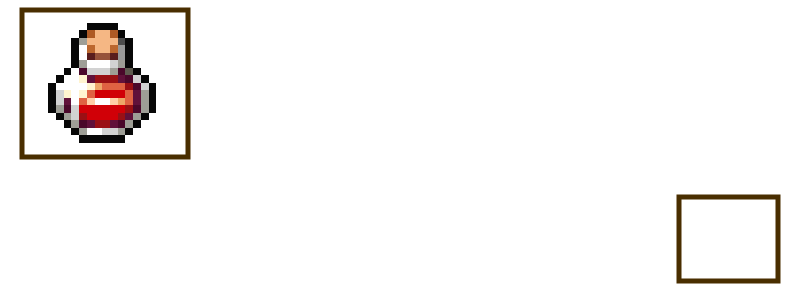
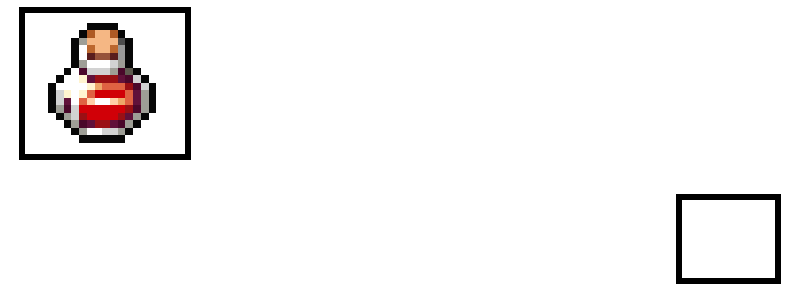
Progresso de Inventario

Changed region(s): [[0.0, 0.0, 0.25, 0.54], [0.8438, 0.63, 1.0, 0.96]]

diff --git a/InventoryObjects.js b/InventoryObjects.js
@@ -13,31 +13,86 @@ class Item extends Sprite {
 
     equip(){
         this.equiped = true;
-        player.damage += this.stats.damage;
-        player.life += this.stats.hp;
     }
 
     unequip(){
         this.equiped = false;
-        player.damage = player.damage-this.stats.damage;
-        player.life = player.life-this.stats.hp;
+
     }
 }
 
 class Sword extends Item{
-    constructor(x,y,width,height) {
+    constructor(x,y,width,height,damage) {
         super(x,y,width,height);
+    }
+    equip(){
+        super.equip()
+        player.damage += this.damage;
+    }
+
+    unequip() {
+        super.unequip();
+        player.damage= player.damage-this.damage;
     }
 }
 
 class Potion extends Item{
-    constructor(x,y,width,height) {
+    constructor(x,y,width,height,hp) {
         super(x,y,width,height);
+    }
+
+    equip(){
+        super.equip();
+        player.life += this.hp;
+    }
+
+}
+
+class Shield extends Potion{
+    constructor(x,y,width,height,hp) {
+        super(x,y,width,height,hp);
+    }
+
+    unequip() {
+        super.unequip();
+        player.life = player.life - this.hp;
     }
 }
 
-class Shield extends Item{
+class Selection extends Sprite{
     constructor(x,y,width,height) {
         super(x,y,width,height);
+        this.numberOfOptions=0;
+        this.checks=[];
+    }
+    draw(){
+        ctx.fillStyle="black";
+        ctx.strokeRect(this.x,this.y,this.width,this.height);
+    }
+
+    select(key){
+        console.log(this.numberOfOptions);
+        if(key==="ArrowUp" && this.numberOfOptions>0){
+            this.numberOfOptions--;
+            this.y -= item.y;
+        }else if(key==="ArrowDown" && this.numberOfOptions<=(player.inventory.length-2)){
+            this.numberOfOptions++;
+            this.y+=item.y;
+        }else if(key==="Enter" && this.numberOfOptions>0 && this.numberOfOptions<(player.inventory.length-1)){
+            if(!player.inventory[this.numberOfOptions].equiped){
+                player.inventory[this.numberOfOptions].equip();
+            }else if(player.inventory[this.numberOfOptions].equiped && player.inventory[this.numberOfOptions] instanceof Sword || player.inventory[this.numberOfOptions] instanceof Shield){
+                player.inventory[this.numberOfOptions].unequip();
+            }
+        }
+    }
+}
+
+class Check extends Sprite{
+    constructor(x,y,width,height) {
+        super(x,y,width,height);
+    }
+    draw(){
+        ctx.drawImage(check.images[0], this.x, this.y, this.width, this.height);
     }
 }

diff --git a/GameLoop.js b/GameLoop.js
@@ -4,8 +4,10 @@ const player = new Player(220,canvas.height/1.5,150,150);
 const playerattack = new playerStance(player.x,player.y,player.width,player.height);
 const npc = new Npc((canvas.width/2)-50,(canvas.height/2)-40,200,200);
 const inventory = new Inventory((canvas.width*1000)/1536, (canvas.height*50)/731,(canvas.width*350)/1536,(canvas.height*600)/731);
-let enemy = new Enemy(canvas.width/2,(canvas.height/2)-tiles.height*3,64,64,10);
+const enemy = new Enemy(canvas.width/2,(canvas.height/2)-tiles.height*3,64,64,10);
 const item = new Item((canvas.width*1028)/1536,(canvas.height*85)/731,(canvas.width*295)/1536,(canvas.height*80)/731);
+const selection = new Selection(item.x,item.y,item.width,item.height);
+const check = new Check(item.x+320,item.y+10,30,30);
 
 map.load("Assets/room1.png","Assets/room2.png","Assets/room3.png","Assets/room4.png","Assets/room5.png","Assets/room6.png");
 foreground.load("Assets/room1foreground.png","Assets/room2foreground.png","Assets/room3foreground.png","Assets/room4foreground.png","Assets/room5foreground.png","Assets/room6foreground.png")
@@ -21,9 +23,14 @@ npc.load(18,6,npc.images,"Assets/NPC/Golem/idle_down.png");
 
 enemy.load("Assets/Donut.png")
 
-inventory.load("Assets/Inventory/inventory.png","Assets/Inventory/sword1.png","Assets/Inventory/shield1.png");
+inventory.load("Assets/Inventory/inventory.png","Assets/Inventory/sword1.png","Assets/Inventory/shield1.png","Assets/Inventory/potion1.png");
 
-player.inventory.push(new Sword(item.x,item.y,item.width,item.height),new Shield(item.x,item.y*2,item.width,item.height));
+player.inventory.push(new Sword(item.x,item.y,item.width,item.height,10),new Shield(item.x,item.y*2,item.width,item.height,0));
+
+check.load("Assets/Inventory/check.png");
+
+//Exemplo de adição de um item ao inventário
+//player.inventory.push(new Potion(item.x,item.y*(inventory.images.length-1),item.width,item.height,10));
 
 
 map.init(player.level)
@@ -41,6 +48,7 @@ function animate(){
      enemy.chase(Math.atan2(player.y+player.height/2-enemy.y,player.x + player.width/2 - enemy.x))
     foreground.draw(player.level)
     inventory.drawInventory();
+     check.draw();
     /*
     playerattack.attacks.forEach(attack =>{ //desenho das colisões de ataque
         attack.drawCollision()

diff --git a/GameObjects.js b/GameObjects.js
@@ -217,8 +217,10 @@ class Inventory extends Sprite {
     drawInventory(){
         if (this.activated) {
             this.draw();
-            player.inventory[0].draw(1);
-            player.inventory[0].draw(2)
+            player.inventory.forEach((item,index) =>{
+                item.draw(index+1);
+            })
+            selection.draw();
         }
     }
 }

diff --git a/EventListeners.js b/EventListeners.js
@@ -26,10 +26,12 @@ window.addEventListener('keydown',function(e){
     if (!existe){
         keys.push(e.key);
     }
+    selection.select(e.key)
 });
 
 window.addEventListener('keypress',function (e){
-        inventory.allowInventory(e.key);
+    e.preventDefault();
+    inventory.allowInventory(e.key);
 })
 
 let attackTimeOut = false;
